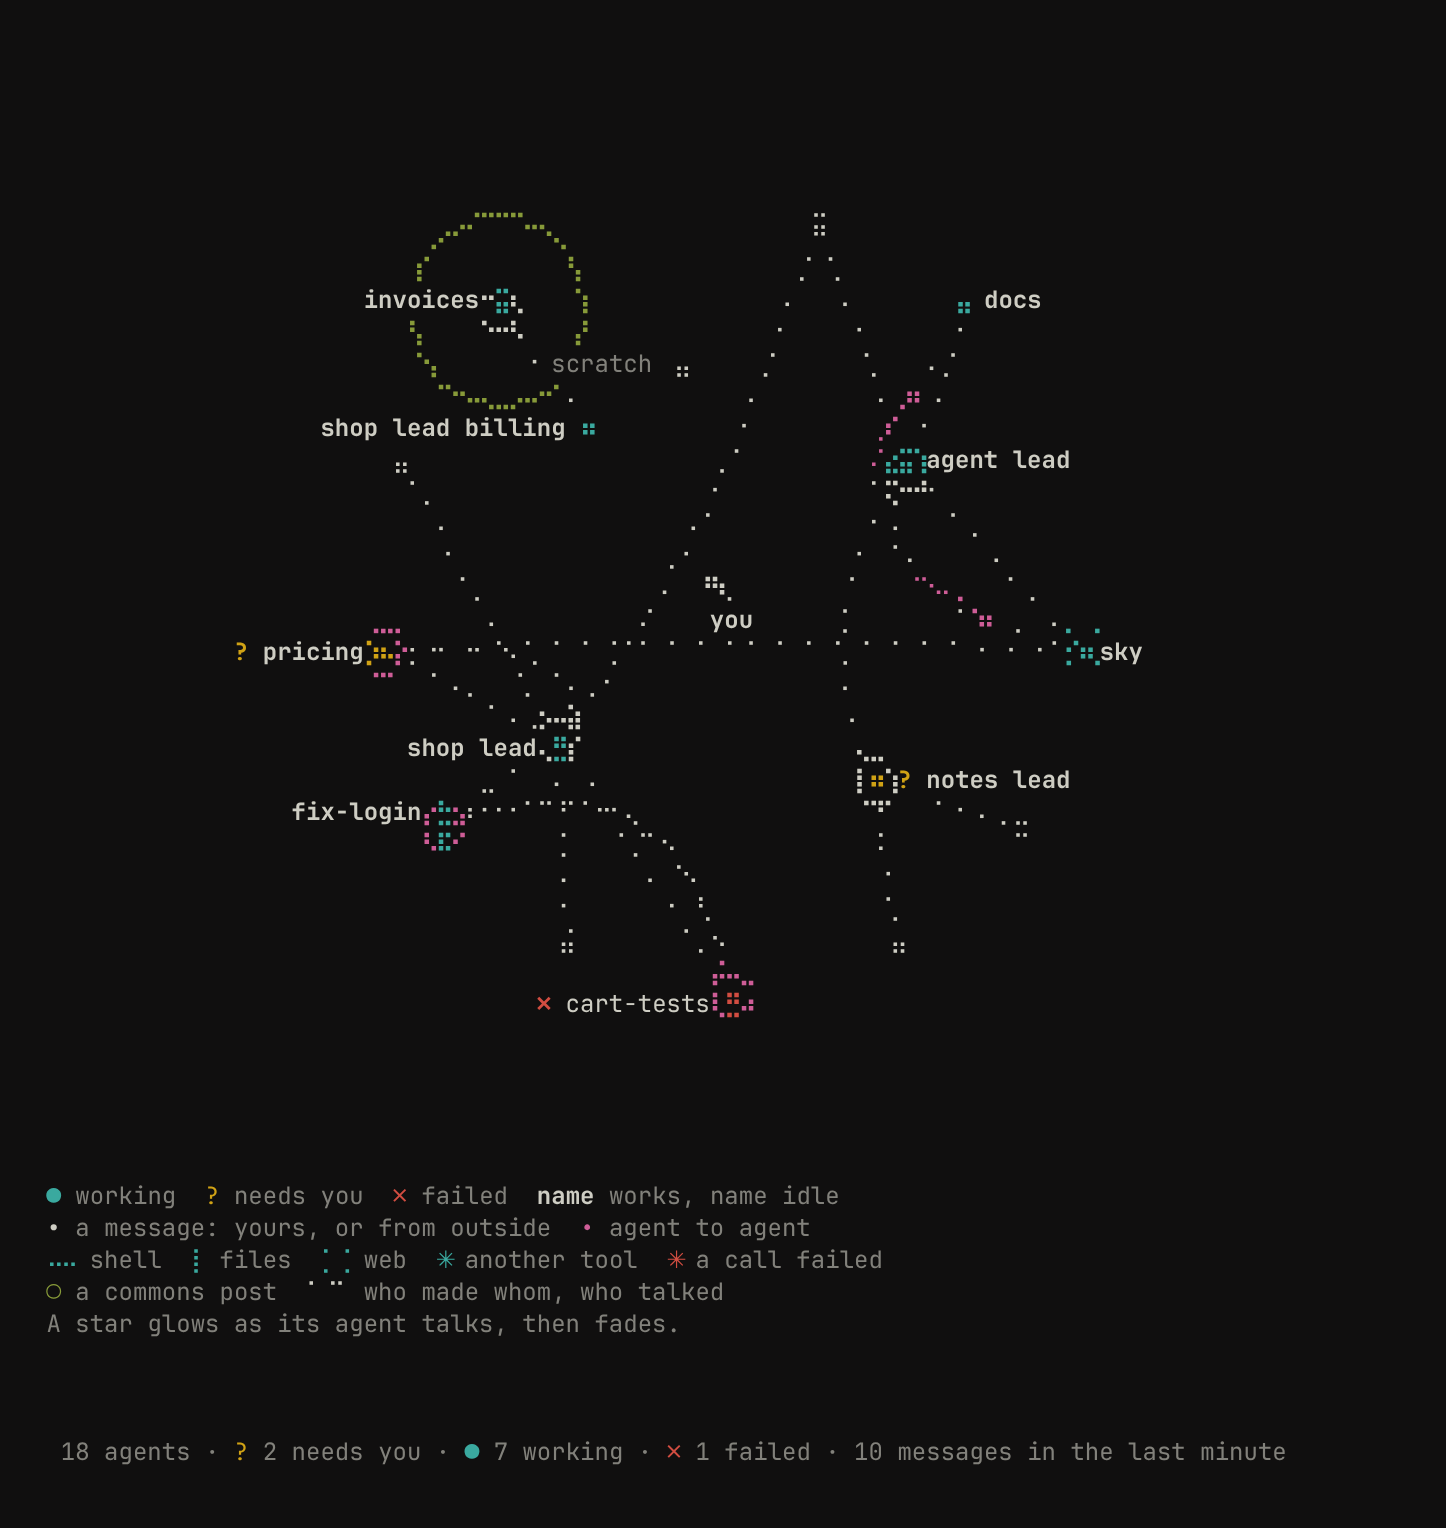
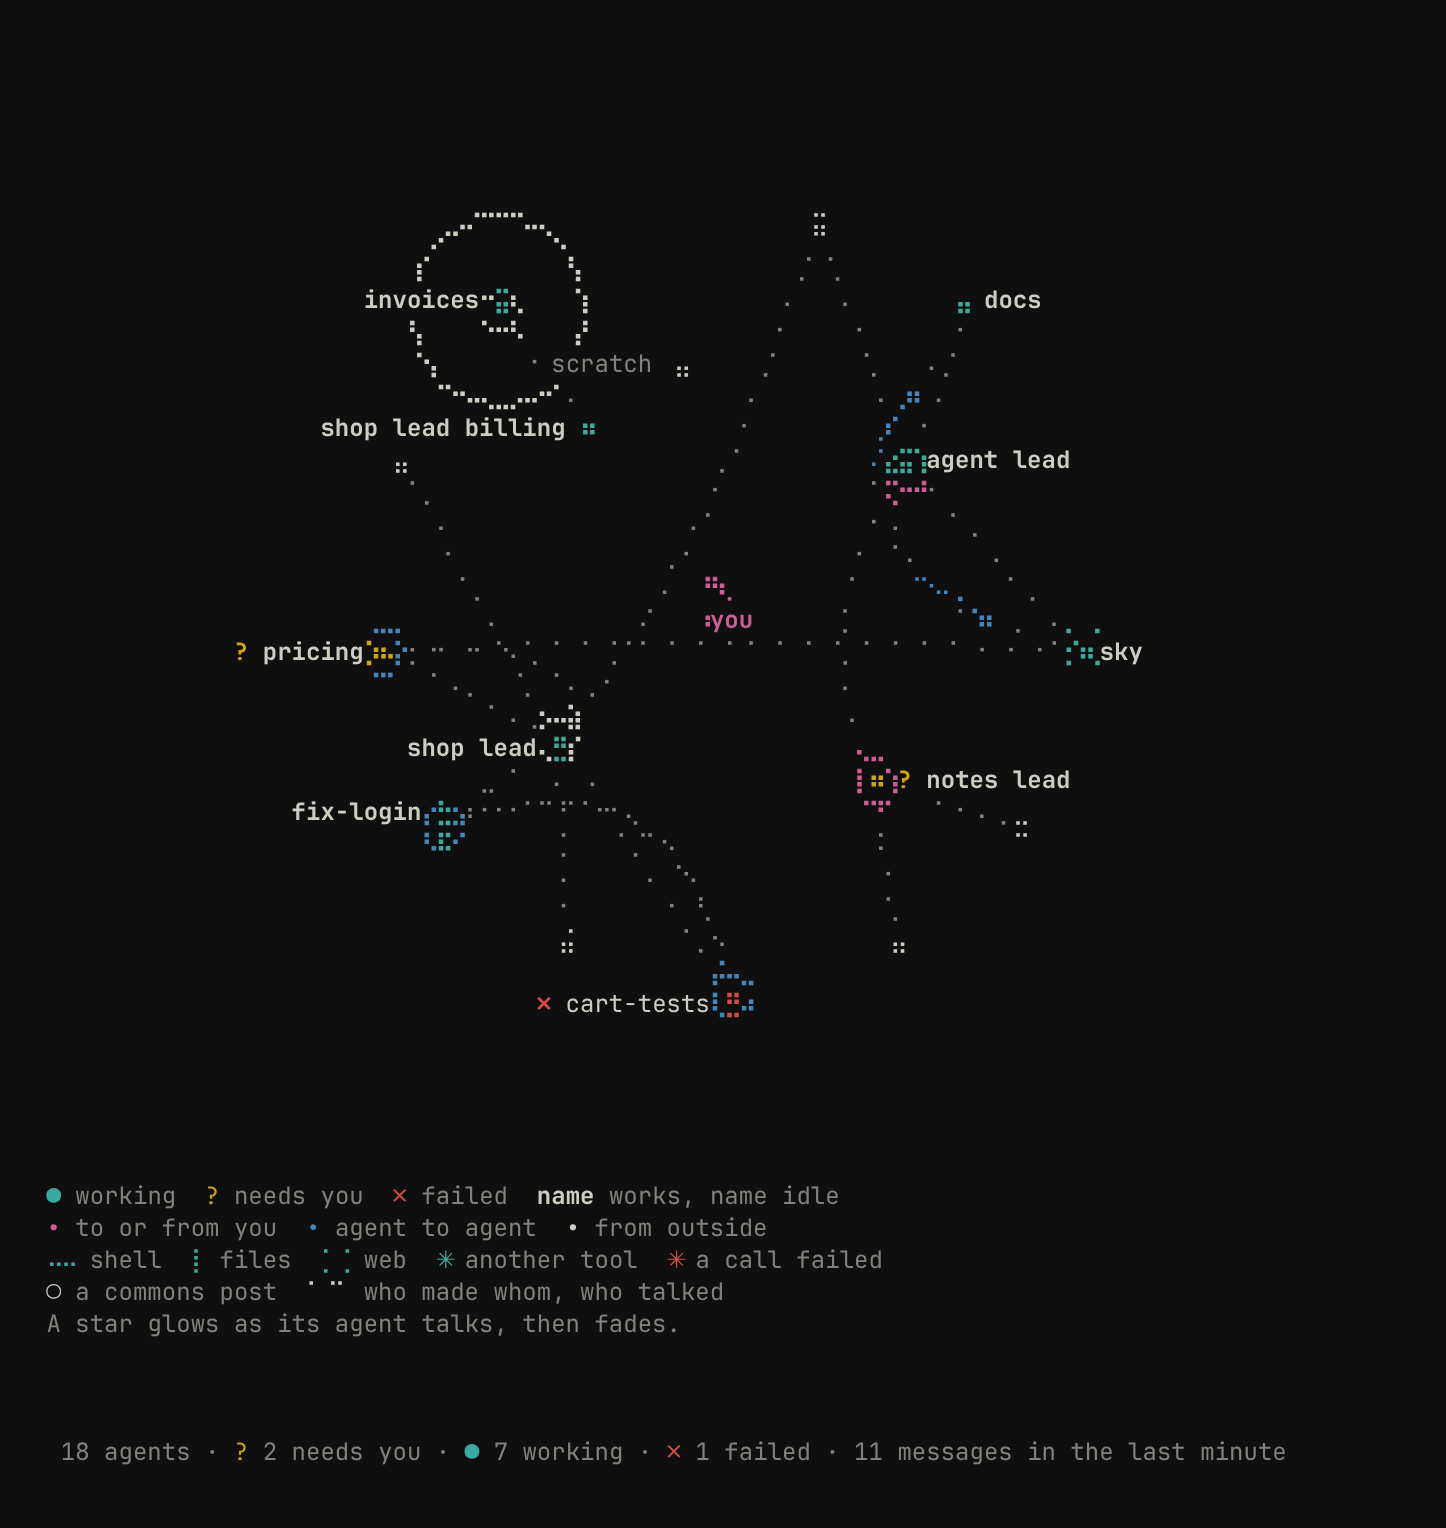
Sonny: /sky back on the visual system
Magenta means you and blue means agents everywhere else in Sonny, but the
sky drew agent-to-agent sparks magenta, your own sparks in plain bold, and
the commons ripple green (worked). Now:

- what goes to or from you is magenta, "you" in the middle too;
- what goes between agents is blue;
- a commons post ripples in the text's own colour: the ring says it;
- who made whom and who talked are muted, in the measured gray that still
  reads in every theme, so the stars and what happens now stand out;
- names stay in the text's colour: every label on the sky is a name, so
  blue would say nothing more;
- `sonny sky` on its own asks the terminal for its theme and draws through
  the same look, so its muted gray and NO_COLOR match the conversation.

Claude-Session: https://claude.ai/code/session_013jkdGEUbnoEt6cpedcLYEa

diff --git a/sonny/src/sky.rs b/sonny/src/sky.rs
@@ -64,15 +64,15 @@ const TICKER: usize = 5;
 const SKY_COLS: usize = 60;
 const SKY_ROWS: usize = 24;
 
-/// Agent to agent.
-const TALK: Color = Color::Magenta;
+/// Agent to agent: agents' colour, as their names.
+const TALK: Color = Color::Blue;
+/// To or from the person: theirs, as the `›` on their messages.
+const YOU: Color = Color::Magenta;
 /// A tool call: code's colour.
 const TOOL: Color = Color::Cyan;
 /// The state table's: working, needs you.
 const WORKING: Color = Color::Cyan;
 const NEEDS: Color = Color::Yellow;
-/// A commons post.
-const BOARD: Color = Color::Green;
 /// A failed call.
 const FAILED: Color = Color::Red;
 
@@ -627,12 +627,12 @@ impl View {
                 }
                 // The answer to the person flies back to the middle.
                 if live && agent.sender == Some(End::Person) && data["status"] == "completed" {
-                    agent.lit = Some((now, None));
+                    agent.lit = Some((now, Some(YOU)));
                     self.sparks.push(Spark {
                         from: End::Agent(at),
                         to: End::Person,
                         born: now,
-                        color: None,
+                        color: Some(YOU),
                     });
                 }
                 self.agents[at].sender = None;
@@ -662,7 +662,7 @@ impl View {
     fn send(&mut self, from: End, to: End, now: Instant) {
         let color = match from {
             End::Agent(_) => Some(TALK),
-            End::Person => None,
+            End::Person => Some(YOU),
             End::Rim(_) => Some(Color::Reset),
         };
         if let End::Agent(at) = from {
@@ -833,15 +833,16 @@ impl View {
         let sky_rows = rows.saturating_sub(TICKER + 3).clamp(8, cols / 2 + 1);
         let mut sky = Sky::new(cols, sky_rows);
         // The person in the middle.
-        sky.text_at((0.0, 0.0), "you", Style::default().bold());
-        // Who made whom: dotted lines; who talked: dotted curves. In the
-        // text's own colour at full weight, as dim braille all but
-        // vanishes in some themes; hues are kept for what happens now.
+        sky.text_at((0.0, 0.0), "you", Style::default().fg(YOU).bold());
+        // Who made whom: dotted lines; who talked: dotted curves. Muted,
+        // as everything that says how it got here: the measured gray
+        // that still reads in every theme, where plain dim would vanish;
+        // hues are kept for what happens now.
         for (at, agent) in self.agents.iter().enumerate().filter(|(_, a)| !a.gone) {
             if let Some(by) = self.maker(at)
                 && !agent.root
             {
-                sky.line(self.agents[by].at, agent.at, Ink::Plain, 3);
+                sky.line(self.agents[by].at, agent.at, Ink::Faint, 3);
             }
         }
         for &(by, to) in &self.talks {
@@ -849,14 +850,16 @@ impl View {
                 continue;
             }
             let (a, b) = (self.agents[by].at, self.agents[to].at);
-            sky.curve(a, bend(a, b), b, Ink::Plain, 4);
+            sky.curve(a, bend(a, b), b, Ink::Faint, 4);
         }
         // Ripples, then sparks, then the stars over them.
         for agent in self.agents.iter().filter(|a| !a.gone) {
             if let Some(at) = agent.ripple {
                 let t = now.duration_since(at).as_secs_f32() / RIPPLE.as_secs_f32();
                 if t < 1.0 {
-                    sky.ring(agent.at, 0.04 + 0.26 * t, Ink::Color(BOARD, t < 0.6));
+                    // No hue of its own: the ring says it.
+                    let ink = if t < 0.6 { Ink::Bright } else { Ink::Plain };
+                    sky.ring(agent.at, 0.04 + 0.26 * t, ink);
                 }
             }
         }
@@ -941,11 +944,7 @@ impl View {
                 }
                 _ => None,
             };
-            let style = match agent.state() {
-                Some(State::Working | State::NeedsYou) => Style::default().bold(),
-                Some(State::Failed) => Style::default(),
-                None => Style::default().add_modifier(Modifier::DIM),
-            };
+            let style = name_style(agent.state(), agent.glow(now));
             sky.label(agent.at, mark, &short(&agent.name), style);
         }
         lines.extend(sky.lines());
@@ -1035,13 +1034,7 @@ impl View {
                 }
                 None => Span::raw(" "),
             };
-            let name = short(&agent.name);
-            let name = match agent.state() {
-                Some(State::Working | State::NeedsYou) => Span::raw(name).bold(),
-                Some(State::Failed) => Span::raw(name),
-                None if glow > 0.08 => Span::raw(name),
-                None => Span::raw(name).dim(),
-            };
+            let name = Span::styled(short(&agent.name), name_style(agent.state(), glow));
             let indent = "  ".repeat(depth.min(4));
             let used = 4 + indent.width() + name.content.width();
             let mut spans = vec![
@@ -1137,10 +1130,12 @@ fn legend(list: bool) -> Vec<Line<'static>> {
     }
     lines.extend([
         Line::from(vec![
-            Span::raw("•").bold(),
-            says(" a message: yours, or from outside  "),
+            mark("•", YOU).bold(),
+            says(" to or from you  "),
             mark("•", TALK),
-            says(" agent to agent"),
+            says(" agent to agent  "),
+            Span::raw("•").bold(),
+            says(" from outside"),
         ]),
         Line::from(vec![
             mark("⠤⠤", TOOL),
@@ -1155,7 +1150,7 @@ fn legend(list: bool) -> Vec<Line<'static>> {
             says(" a call failed"),
         ]),
         Line::from(vec![
-            mark("◯", BOARD),
+            Span::raw("◯"),
             says(" a commons post  "),
             Span::raw("⠁⠈⠁"),
             says(" who made whom, who talked"),
@@ -1163,6 +1158,19 @@ fn legend(list: bool) -> Vec<Line<'static>> {
         Line::from(says("A star glows as its agent talks, then fades.")),
     ]);
     lines
+}
+
+/// A name: bold while it works or needs the person, muted while it is
+/// quiet. In the text's own colour: here every label is an agent's name,
+/// so agents' blue would say nothing a name doesn't, and the sky's hues
+/// are kept for what happens.
+fn name_style(state: Option<State>, glow: f32) -> Style {
+    match state {
+        Some(State::Working | State::NeedsYou) => Style::default().bold(),
+        Some(State::Failed) => Style::default(),
+        None if glow > 0.08 => Style::default(),
+        None => Style::default().add_modifier(Modifier::DIM),
+    }
 }
 
 /// How long ago, as the ticker says it.
@@ -1251,6 +1259,7 @@ fn ease(t: f32) -> f32 {
 /// takes the cell's colour only when it is at least as strong.
 #[derive(Clone, Copy, PartialEq, Debug)]
 enum Ink {
+    Faint,
     Plain,
     Bright,
     Color(Color, bool),
@@ -1259,10 +1268,11 @@ enum Ink {
 impl Ink {
     fn rank(self) -> u8 {
         match self {
-            Ink::Plain => 0,
-            Ink::Color(_, false) => 1,
-            Ink::Bright => 2,
-            Ink::Color(_, true) => 3,
+            Ink::Faint => 0,
+            Ink::Plain => 1,
+            Ink::Color(_, false) => 2,
+            Ink::Bright => 3,
+            Ink::Color(_, true) => 4,
         }
     }
     fn fade(self) -> Ink {
@@ -1274,6 +1284,7 @@ impl Ink {
     }
     fn style(self) -> Style {
         match self {
+            Ink::Faint => Style::default().add_modifier(Modifier::DIM),
             Ink::Plain => Style::default(),
             Ink::Bright => Style::default().bold(),
             Ink::Color(color, true) => Style::default().fg(color).bold(),
@@ -1492,6 +1503,9 @@ pub fn watch(runtime: &tokio::runtime::Runtime, socket: PathBuf) -> Result<(), S
     let _inside = runtime.enter();
     let mut view = View::open(socket);
     terminal::enable_raw_mode().map_err(|e| e.to_string())?;
+    // The theme's colours, so muted reads as the measured gray it is in
+    // the conversation, and `NO_COLOR` is honoured here too.
+    crate::term::detect();
     let _ = execute!(std::io::stdout(), EnterAlternateScreen, cursor::Hide);
     let backend = ratatui::backend::CrosstermBackend::new(std::io::stdout());
     let drawn = ratatui::Terminal::new(backend)
@@ -1511,7 +1525,10 @@ pub fn watch(runtime: &tokio::runtime::Runtime, socket: PathBuf) -> Result<(), S
                     (true, Some(_)) => {}
                 }
                 terminal
-                    .draw(|frame| frame.render_widget(&mut view, frame.area()))
+                    .draw(|frame| {
+                        frame.render_widget(&mut view, frame.area());
+                        crate::look::Look::now().finish(frame.buffer_mut());
+                    })
                     .map_err(|e| e.to_string())?;
                 if !event::poll(FRAME).map_err(|e| e.to_string())? {
                     continue;
@@ -1825,6 +1842,9 @@ mod tests {
         assert_eq!(view.sparks.len(), 2);
         assert_eq!(view.sparks[0].from, End::Agent(view.index["shop.lead"]));
         assert_eq!(view.sparks[1].from, End::Person);
+        // Between agents in agents' blue; to or from the person in theirs.
+        assert_eq!(view.sparks[0].color, Some(Color::Blue));
+        assert_eq!(view.sparks[1].color, Some(Color::Magenta));
         assert_eq!(view.talks.len(), 1);
         let shown = text(&view.card(60, 40));
         assert!(shown.contains("shop lead → login"), "{shown}");

diff --git a/sonny/FEATURES.md b/sonny/FEATURES.md
@@ -121,7 +121,7 @@ per feature; group small things into the row they belong to.
 | Goals: keep an agent working until a check command passes | experimental | added 10-29 #341; `/goal WHAT` asks the agent to set one, `/goal` shows, `/goal clear` clears 10-30 #397 | Autonomy with a check, not a model's say-so | ? |
 | MCP servers through one `exec` script tool (`/mcp`, `sonny mcp tool`) | experimental | added 10-29 #321; saved files kept a week 10-29 #327; four scripts at once 10-29 #334; brought in from Claude Code, Codex, OpenCode and Kiro (`sonny mcp import`, offered by setup) 10-30 #415; each call approved on its own by Codex's `approval_mode` (default `auto`), not the script, 10-30 #393 | The person's MCP servers without loading every tool's schema; per-call approval as Codex does, so reads run and only risky calls ask | ? |
 | Commons: threads every agent of every project reads and writes (`commons` tool, `/commons`); `[sonny] commons = false` turns it off; a new thread invites one agent whose turns touch its title, at random (every tenth a golden ticket to any agent), three a day plus one per invite answered that week (six at most), none from a thread an invited turn starts; an invite pays for 1M tokens in its thread, replies waking the invited agent while they last; `commons_invites` and `commons_invite_tokens` in /config | experimental | added 10-30 #392; on/off setting and invites 10-30; an empty commons counts 0, not null 10-30; each post names its model as people say it (`Opus 5.5`, `GPT 6.1 Sol`) 10-31 | A pull-only place for agents to work together across projects, even when it isn't immediately productive; reads are counted so later we can see what mattered | ? |
-| `/sky`: every agent the daemon keeps, drawn as a sky in the pane: leads on the inner ring, the agents each made fanned out behind it, the person in the middle; live, a message flies as a spark (yours from the middle, another agent's across, a follow's or an automation's in from the rim), a commons post ripples, a tool call twinkles in a shape for its kind (shell across, files up and down, web corners, others a star), and whoever was lit fades; each agent in the state table's mark and colour (working cyan `●`, needs you yellow `?` for an ask or an approval, failed red `✗`), counted the same way under it; the last few messages listed under it; under 60 columns or 24 rows a list instead, a firefly per agent and the last it said; `?` shows a legend in the ticker's place; `sonny sky` draws it on its own, to keep in another terminal | experimental | added 10-30 #457; on its own in the whole terminal, `sonny sky` 10-30; lines at full weight, states, tool shapes, the list for small panes, a legend on `?` 10-30 | George wanted to see the population of agents and how they relate, lighting up as they talk, while working; it reads only what the daemon already tells any client (`bots`, `follow` of every agent); dim braille all but vanished in some themes and a small pane had no room for a sky (btop changes layout by size) | ? |
+| `/sky`: every agent the daemon keeps, drawn as a sky in the pane: leads on the inner ring, the agents each made fanned out behind it, the person in the middle; live, a message flies as a spark (yours from the middle, another agent's across, a follow's or an automation's in from the rim), a commons post ripples, a tool call twinkles in a shape for its kind (shell across, files up and down, web corners, others a star), and whoever was lit fades; each agent in the state table's mark and colour (working cyan `●`, needs you yellow `?` for an ask or an approval, failed red `✗`), counted the same way under it; the last few messages listed under it; under 60 columns or 24 rows a list instead, a firefly per agent and the last it said; `?` shows a legend in the ticker's place; `sonny sky` draws it on its own, to keep in another terminal | experimental | added 10-30 #457; on its own in the whole terminal, `sonny sky` 10-30; lines at full weight, states, tool shapes, the list for small panes, a legend on `?` 10-30; back on the visual system: magenta to and from you, blue between agents, the commons ripple without a hue, lines in the measured muted gray, `sonny sky` asks the theme and honours `NO_COLOR` 10-31 | George wanted to see the population of agents and how they relate, lighting up as they talk, while working; it reads only what the daemon already tells any client (`bots`, `follow` of every agent); dim braille all but vanished in some themes and a small pane had no room for a sky (btop changes layout by size) | ? |
 | Skills Sonny installs (automation, memory, plan, pictures, multiplexer skills) | shipped | moved into Sonny 10-27 #189; monitors 10-27 #206; an edited skill is never overwritten 10-29 #357 | Teach agents Sonny's features as normal skills | ? |
 
 ## Lookout and background

diff --git a/sonny/README.md b/sonny/README.md
@@ -587,15 +587,20 @@ way `/react` does, and each note in the margin has its own `↩`.
   across, a follow's or an automation's in from the rim), a commons post
   ripples out, a tool call twinkles in a shape for its kind (a shell's
   streak across, a file's up and down, the web's corners, any other tool's
-  star), and whoever was lit fades. Dotted lines join who made whom and who
-  talked to whom; the last messages are listed under the sky. Each agent
+  star), and whoever was lit fades. Its colours are the rest of Sonny's:
+  what goes to or from you is magenta, as the `›` on your messages; what
+  goes between agents is blue, agents' colour; a follow's or an
+  automation's is the text's own, bold. Dotted lines join who made whom and
+  who talked to whom, muted, as everything that says how it got here; the
+  last messages are listed under the sky. Each agent
   shows the state table's mark and colour: working cyan `●`, needs you
   yellow `?` (an ask, or an approval waiting), failed red `✗`; the footer
   counts them the same way. Under 60 columns or 24 rows the sky becomes a
   list, a firefly per agent and the last it said or was told. `?` swaps the
   ticker for a legend of every mark, colour and shape.
   `sonny sky` draws the same sky on its own, in the whole terminal, to keep
-  in another one beside the work; `q` leaves it, and a daemon that goes is
+  in another one beside the work, with the same muted gray from your theme
+  and `NO_COLOR` honoured; `q` leaves it, and a daemon that goes is
   followed again once it is back.
 
   ![/sky in the pane](../docs/sonny/sky.gif)
